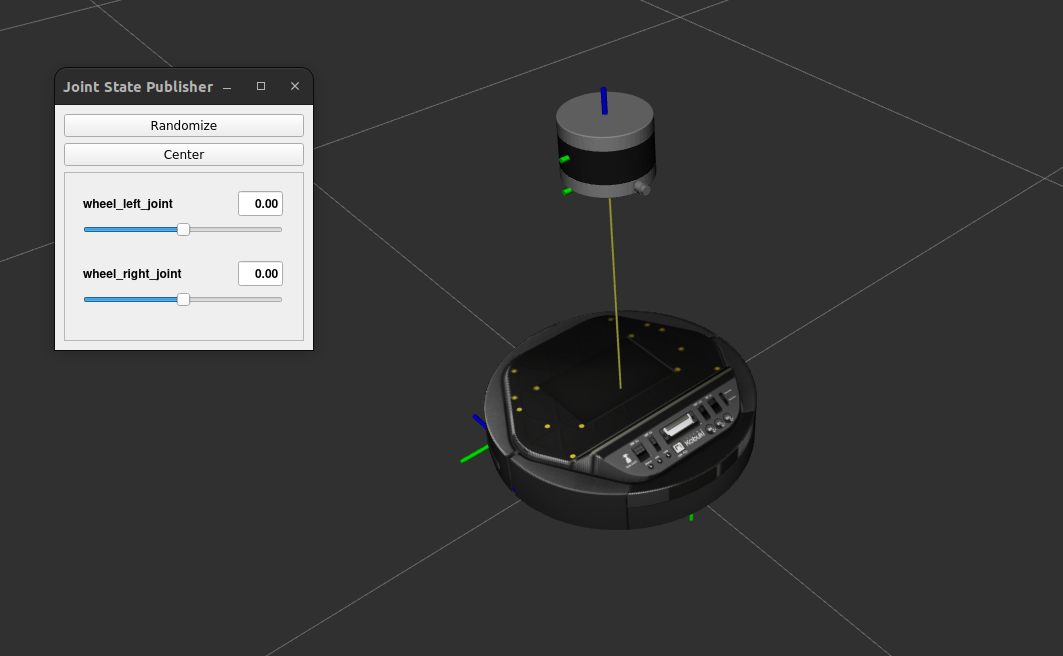
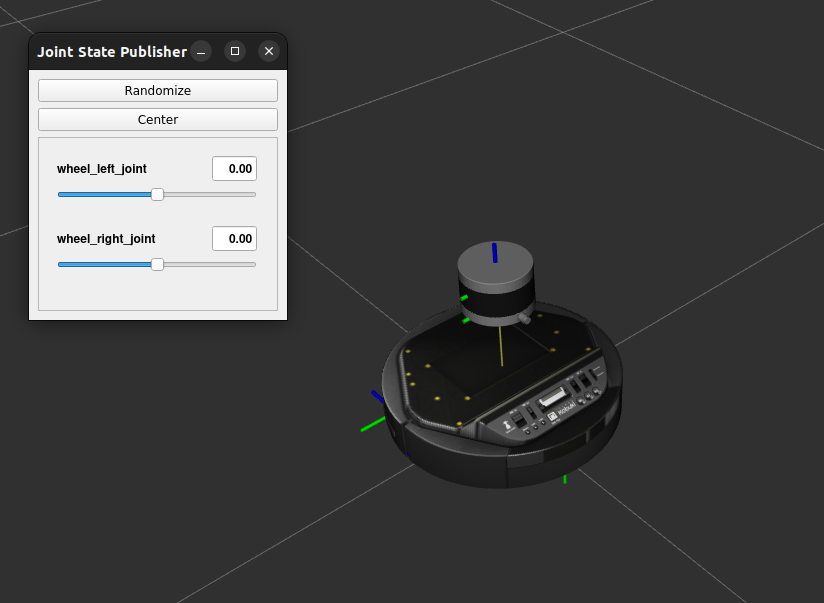
Update figures and README.md in kobuki_ws.

diff --git a/kobuki_ws/README.md b/kobuki_ws/README.md
@@ -19,6 +19,7 @@ kobuki_ws
 ├── figure
 ├── src
 │   ├── kobuki_core
+│   ├── kobuki_control
 │   ├── kobuki_gazebo
 │   ├── kobuki_launch
 │   ├── kobuki_navigation
@@ -40,10 +41,11 @@ Below are the main packages for Kobuki:
 
 |      Package       |                                        Introduction                                        |
 |:------------------:|:------------------------------------------------------------------------------------------:|
+|   kobuki_control   |                          The localization configuration of Kobuki                          |
 |    kobuki_core     |                               Base configuration for Kobuki                                |
 |   kobuki_gazebo    |                                Simulating Kobuki in Gazebo                                 |
 |   kobuki_launch    |                        Launch Kobuki in Gazebo or with a real robot                        |
-| kobuki_navigation  |                                Navigation setup for Kobuki                                 |
+| kobuki_navigation  |                                SLAM setup for Kobuki                                 |
 | kobuki_description |                                  Robot description (URDF)                                  |
 |    kobuki_keyop    | Similar to [teleop_twist_keyboard](https://github.com/ros2/teleop_twist_keyboard) in ROS 2 |
 |    kobuki_node     |                                       Kobuki Driver                                        |
@@ -117,14 +119,14 @@ ros2 launch kobuki_launch kobuki.launch.py is_sim:=true
     </a>
 </div>
 
-### Launch navigation2
+### Launch slam_toolbox
 
-```bash
-ros2 launch kobuki_navigation navigation2.launch.py
+```bash=
+ros2 launch kobuki_navigation slam.launch.py
 ```
 
 <div align="center">
     <a href="./">
-        <img src="./figure/navigation_demo_rviz.png" width="80%"/>
+        <img src="./figure/launch_slam_toolbox.png" width="80%"/>
     </a>
 </div>
